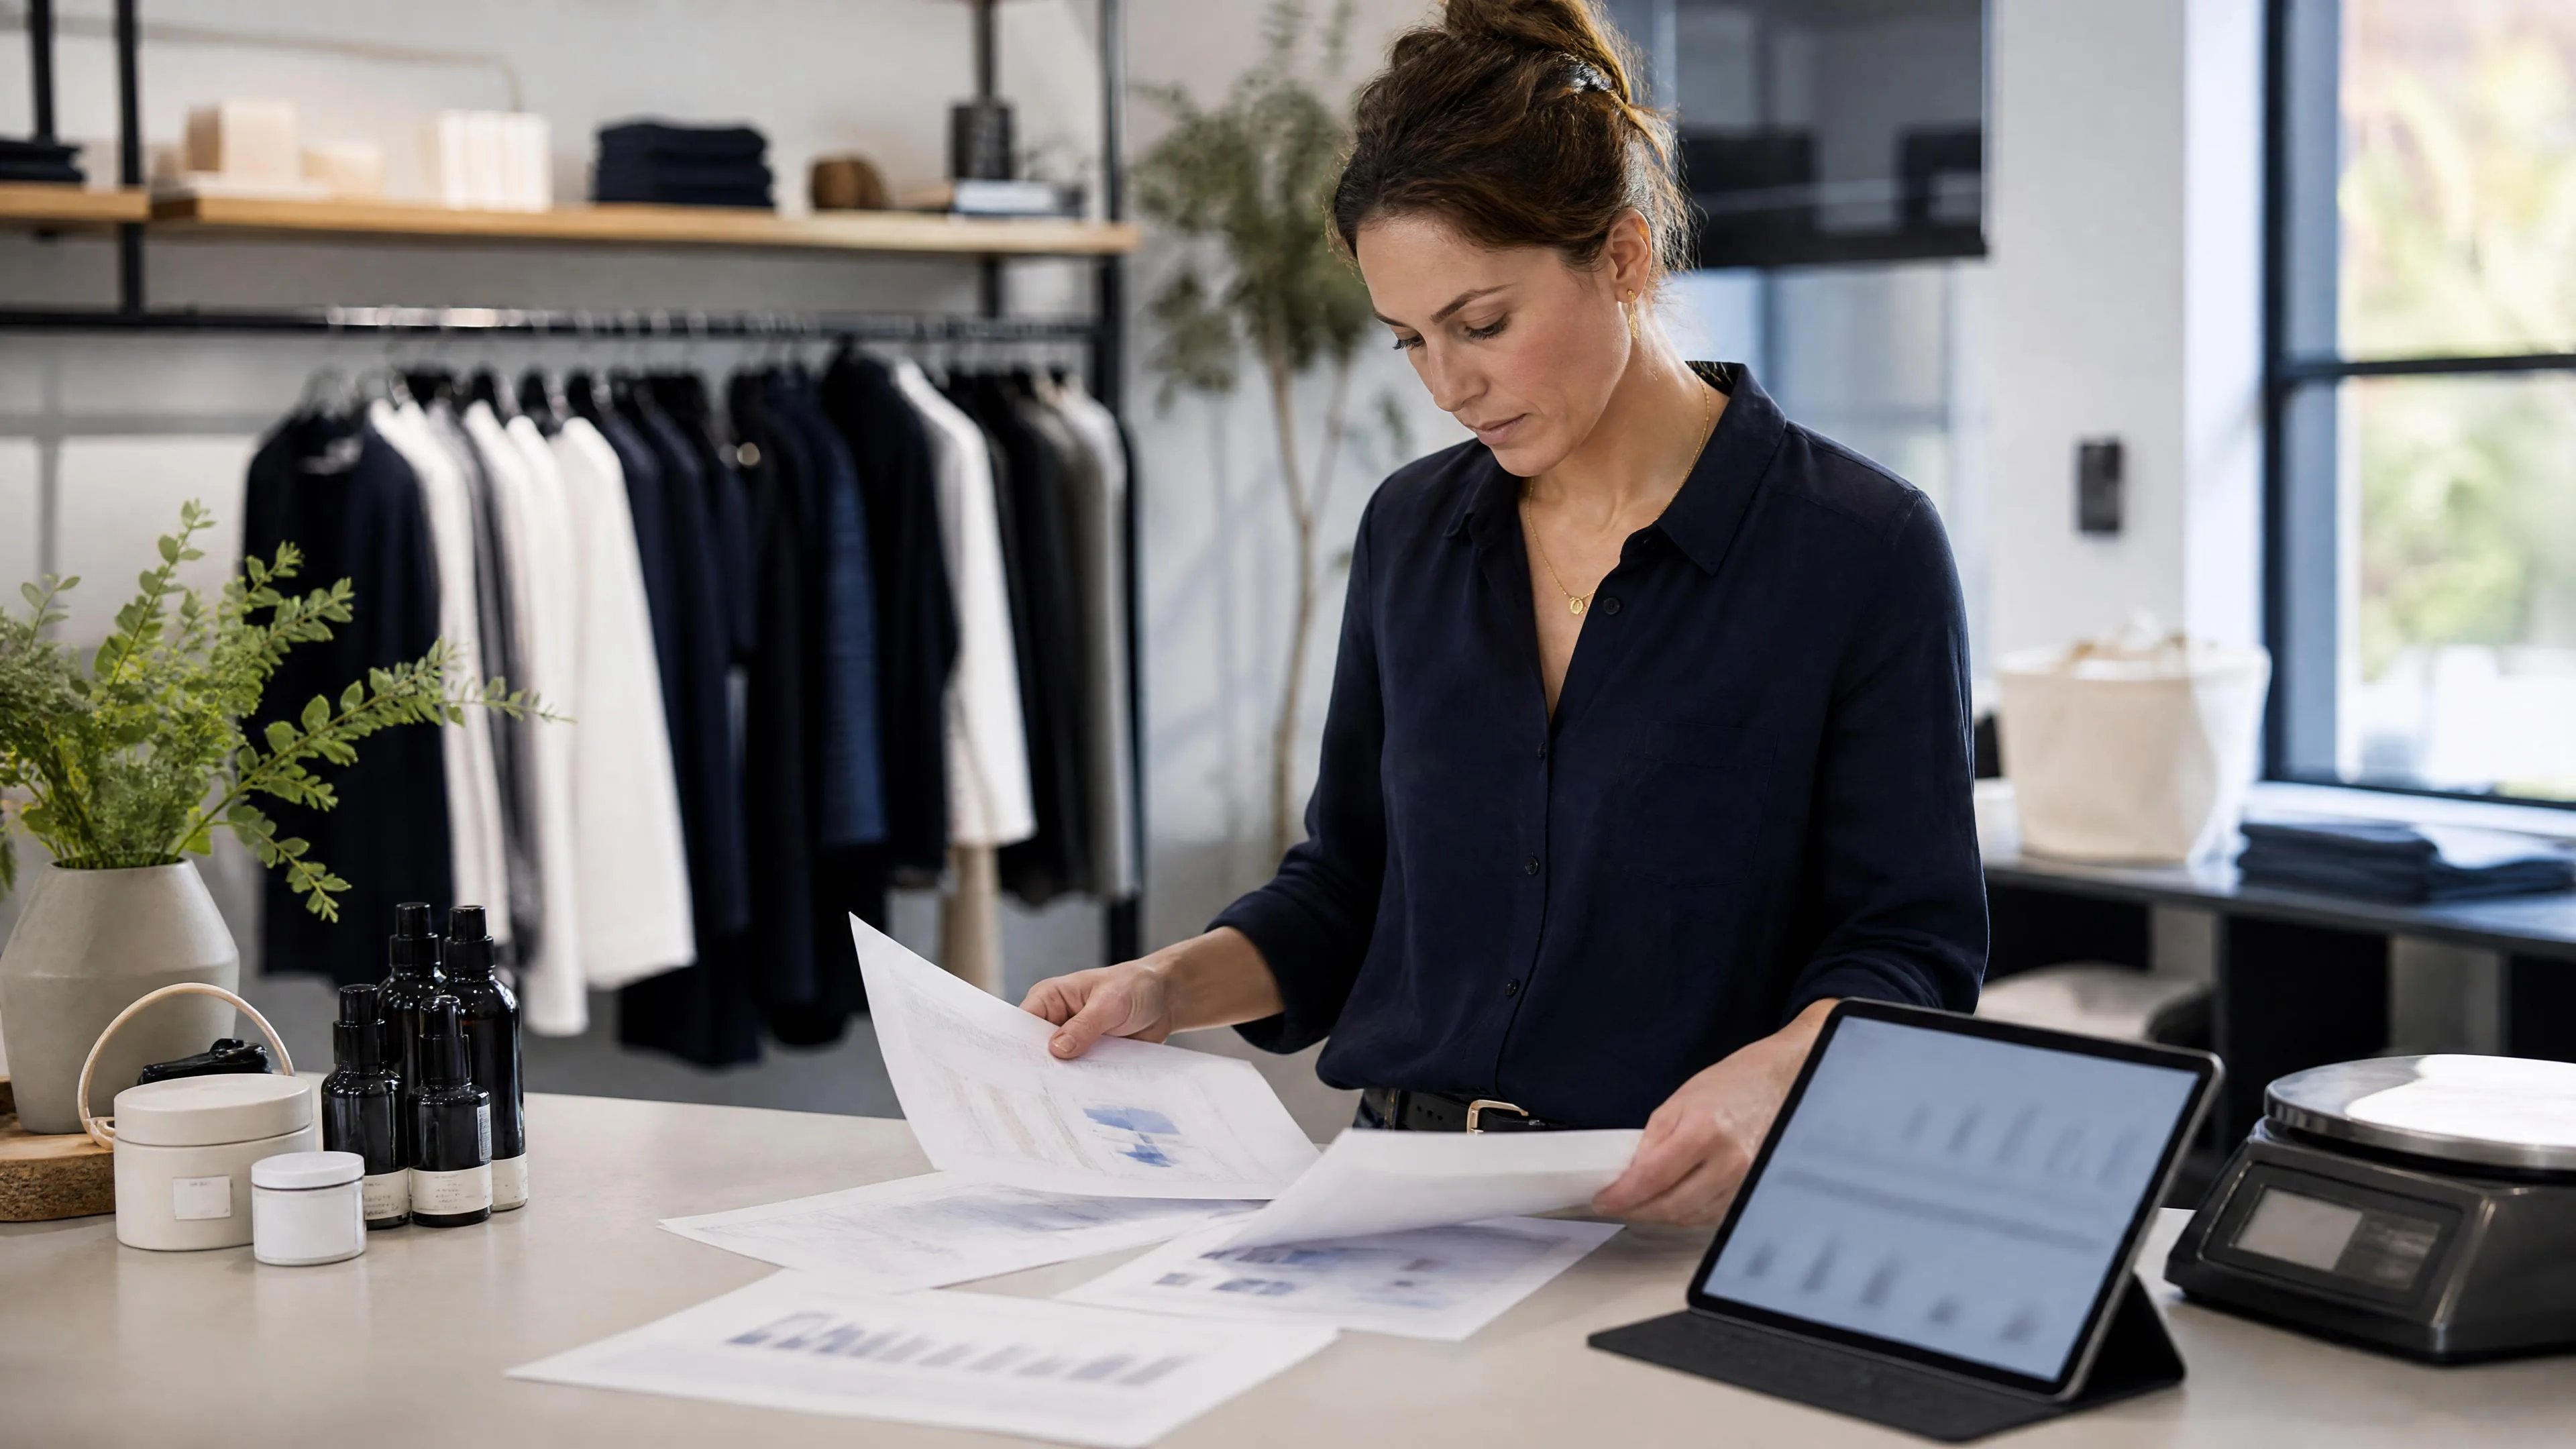
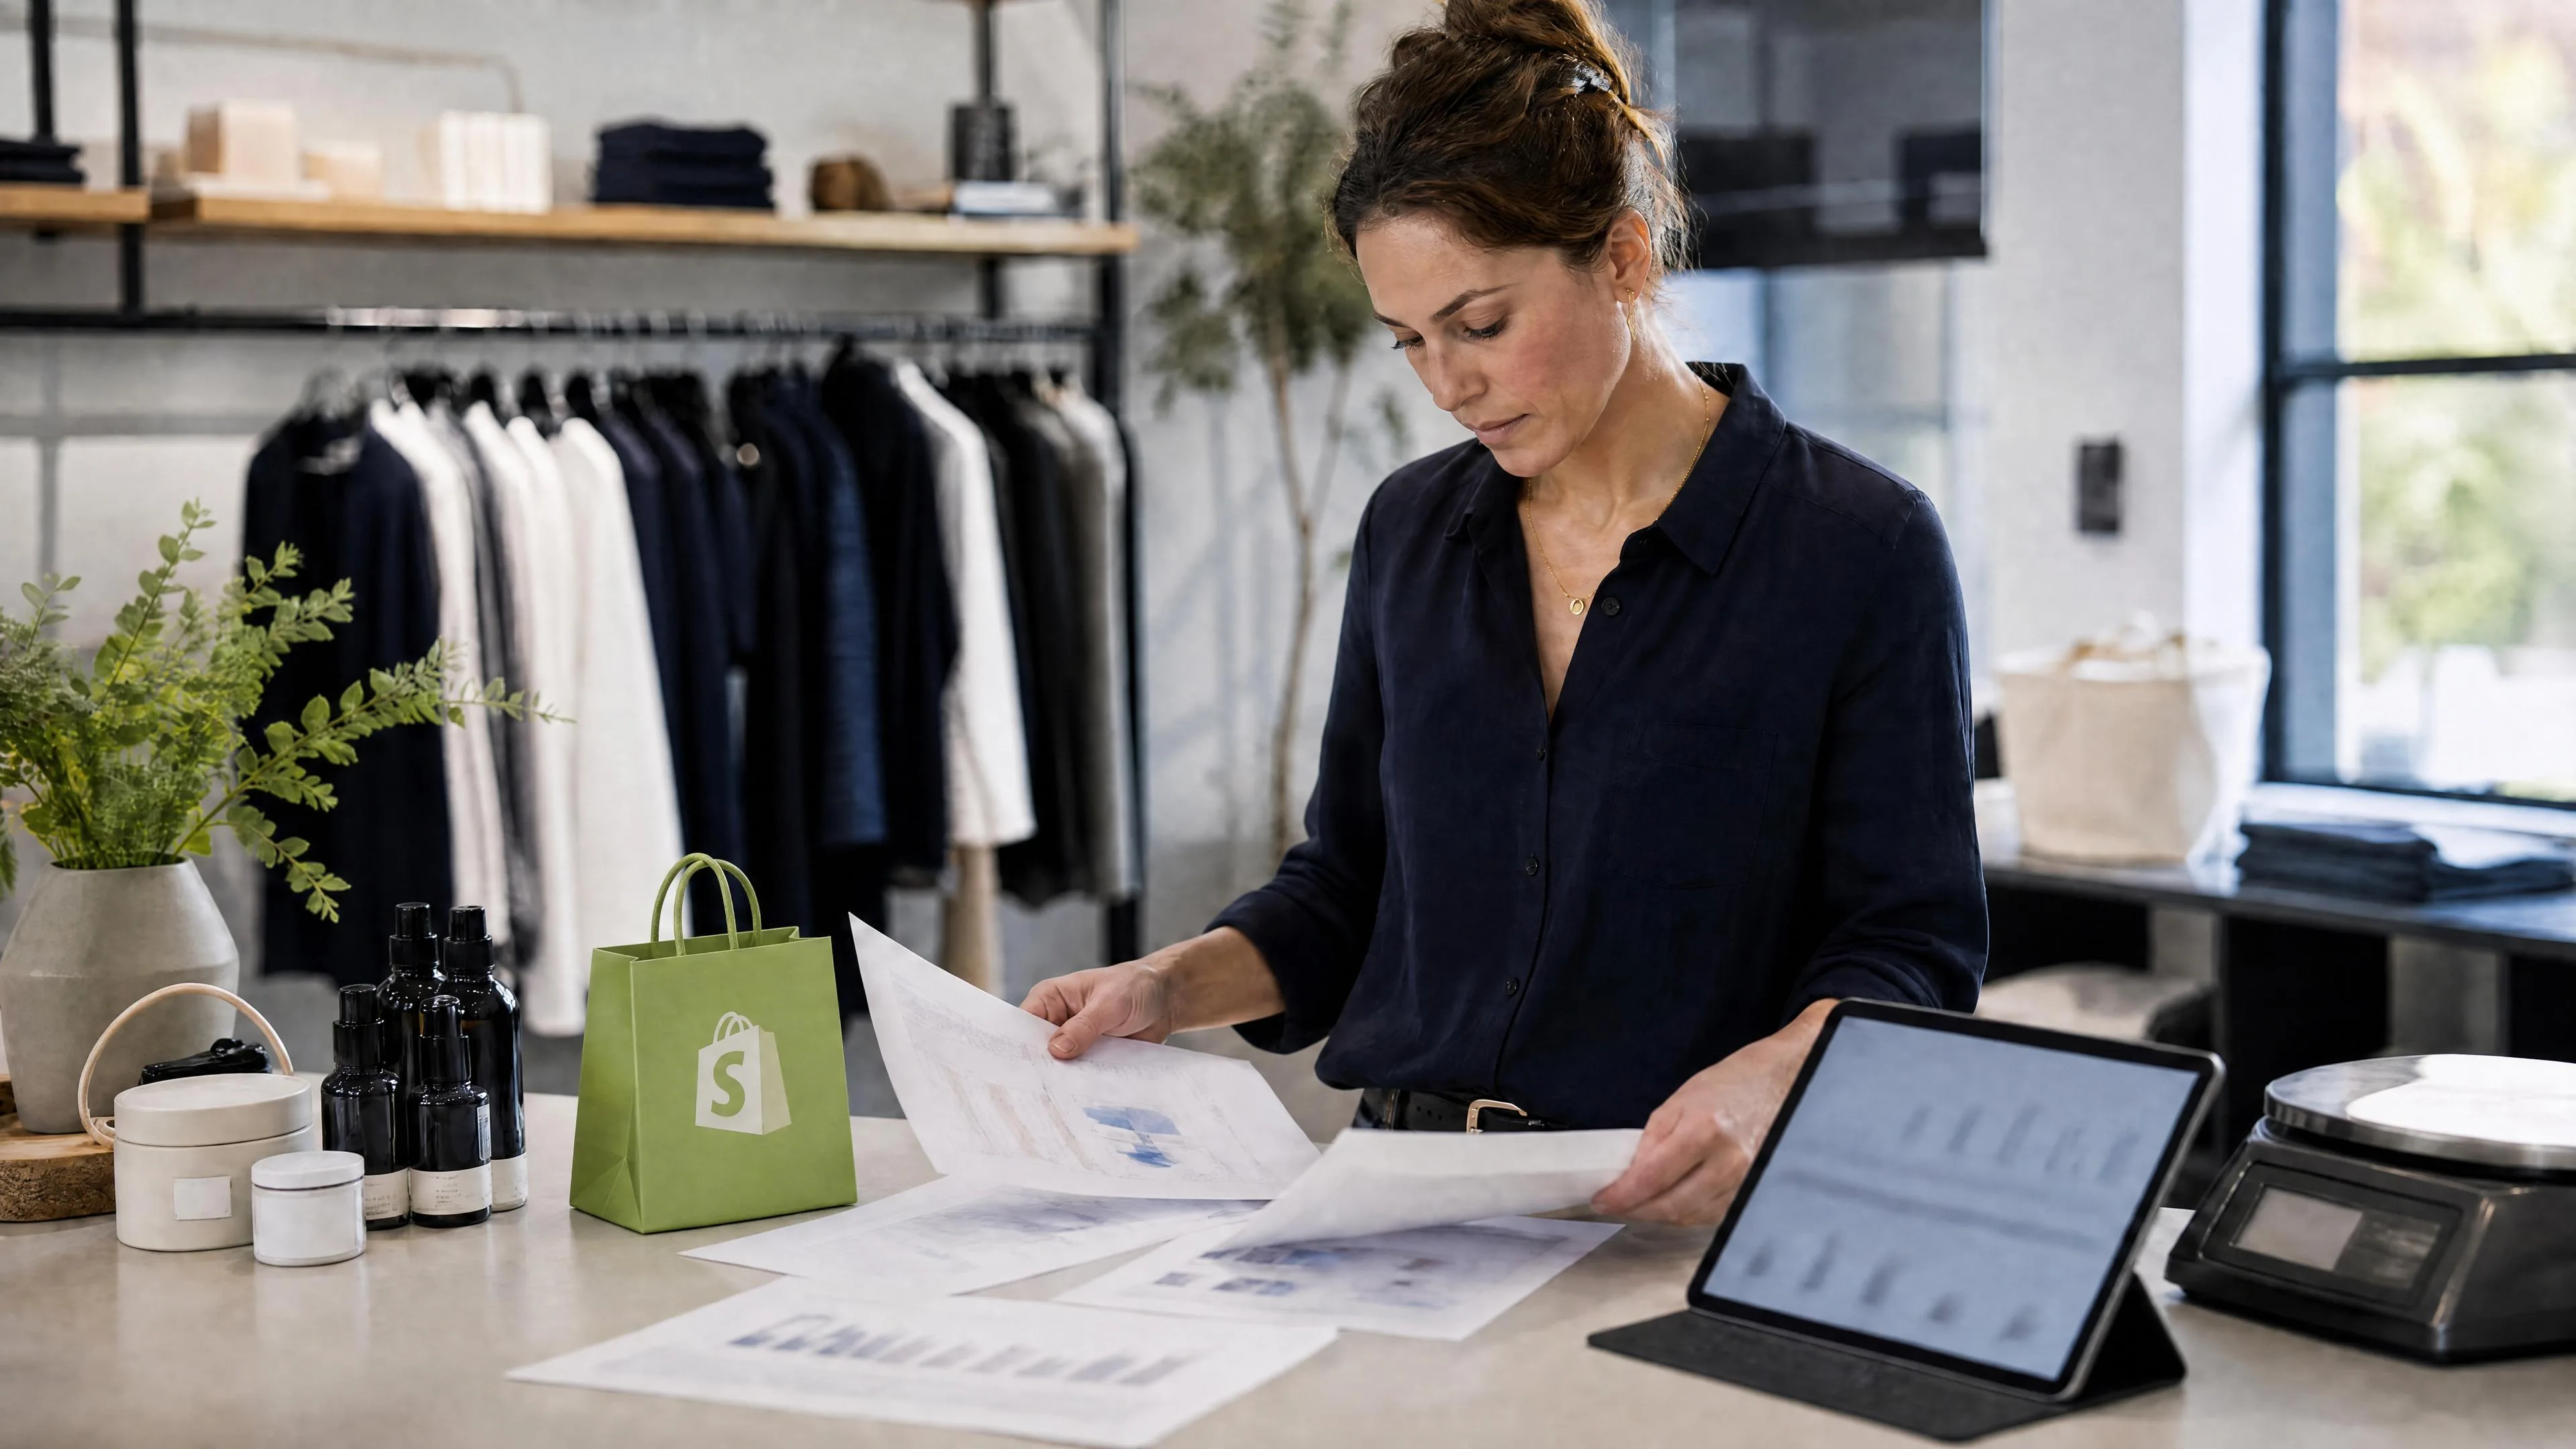
blog: add Shopify bag to benchmark hero

diff --git a/blog/shopify-benchmark-comparisons-removed-may-19/index.html b/blog/shopify-benchmark-comparisons-removed-may-19/index.html
@@ -12,7 +12,7 @@
     <meta property="og:image" content="https://attahirlabs.com/assets/blog/shopify-benchmark-comparisons-removed-may-19/hero.jpg">
     <meta property="og:image:width" content="3840">
     <meta property="og:image:height" content="2160">
-    <meta property="og:image:alt" content="Editorial photo of a Shopify merchant reviewing blurred analytics reports and setting store-owned targets before Benchmark Comparisons are removed.">
+    <meta property="og:image:alt" content="Editorial photo of a Shopify merchant reviewing blurred analytics reports beside a subtle Shopify shopping bag while setting store-owned targets before Benchmark Comparisons are removed.">
     <meta name="twitter:card" content="summary_large_image">
     <meta name="twitter:image" content="https://attahirlabs.com/assets/blog/shopify-benchmark-comparisons-removed-may-19/hero.jpg">
     <script type="application/ld+json">
@@ -98,7 +98,7 @@
 
         <figure class="post-figure blog-hero-figure" data-generated-visual="editorial-gpt-image-2">
             <picture>
-                <img src="/assets/blog/shopify-benchmark-comparisons-removed-may-19/hero.jpg" width="3840" height="2160" alt="Editorial photo of a Shopify merchant reviewing blurred analytics reports and setting store-owned targets before Benchmark Comparisons are removed." fetchpriority="high" decoding="async">
+                <img src="/assets/blog/shopify-benchmark-comparisons-removed-may-19/hero.jpg" width="3840" height="2160" alt="Editorial photo of a Shopify merchant reviewing blurred analytics reports beside a subtle Shopify shopping bag while setting store-owned targets before Benchmark Comparisons are removed." fetchpriority="high" decoding="async">
             </picture>
             <figcaption>As Shopify removes Benchmark Comparisons, merchants should save useful views and replace peer comparisons with store-owned targets.</figcaption>
         </figure>